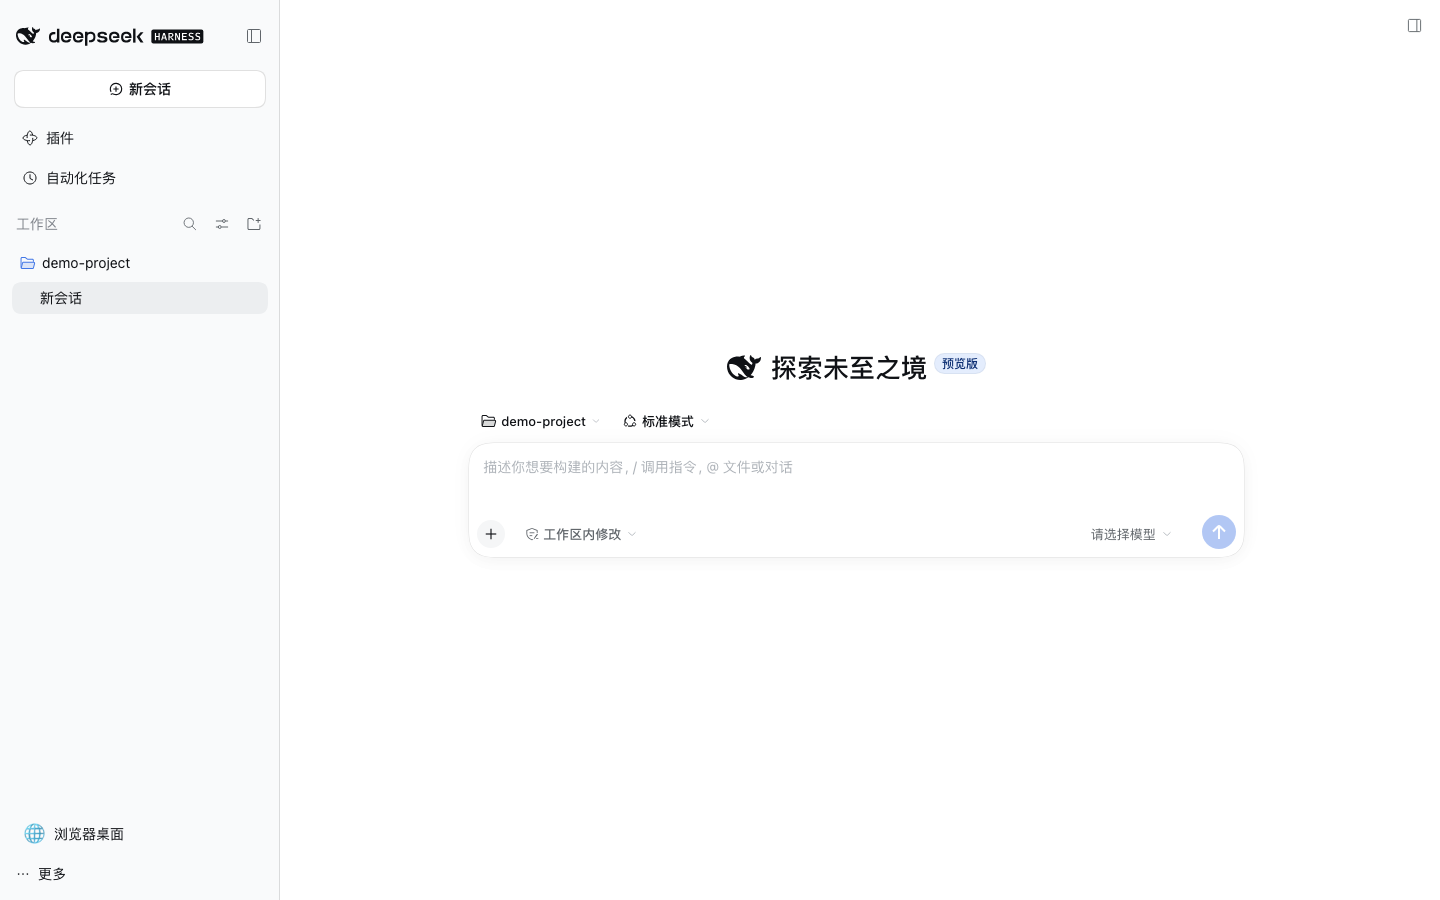
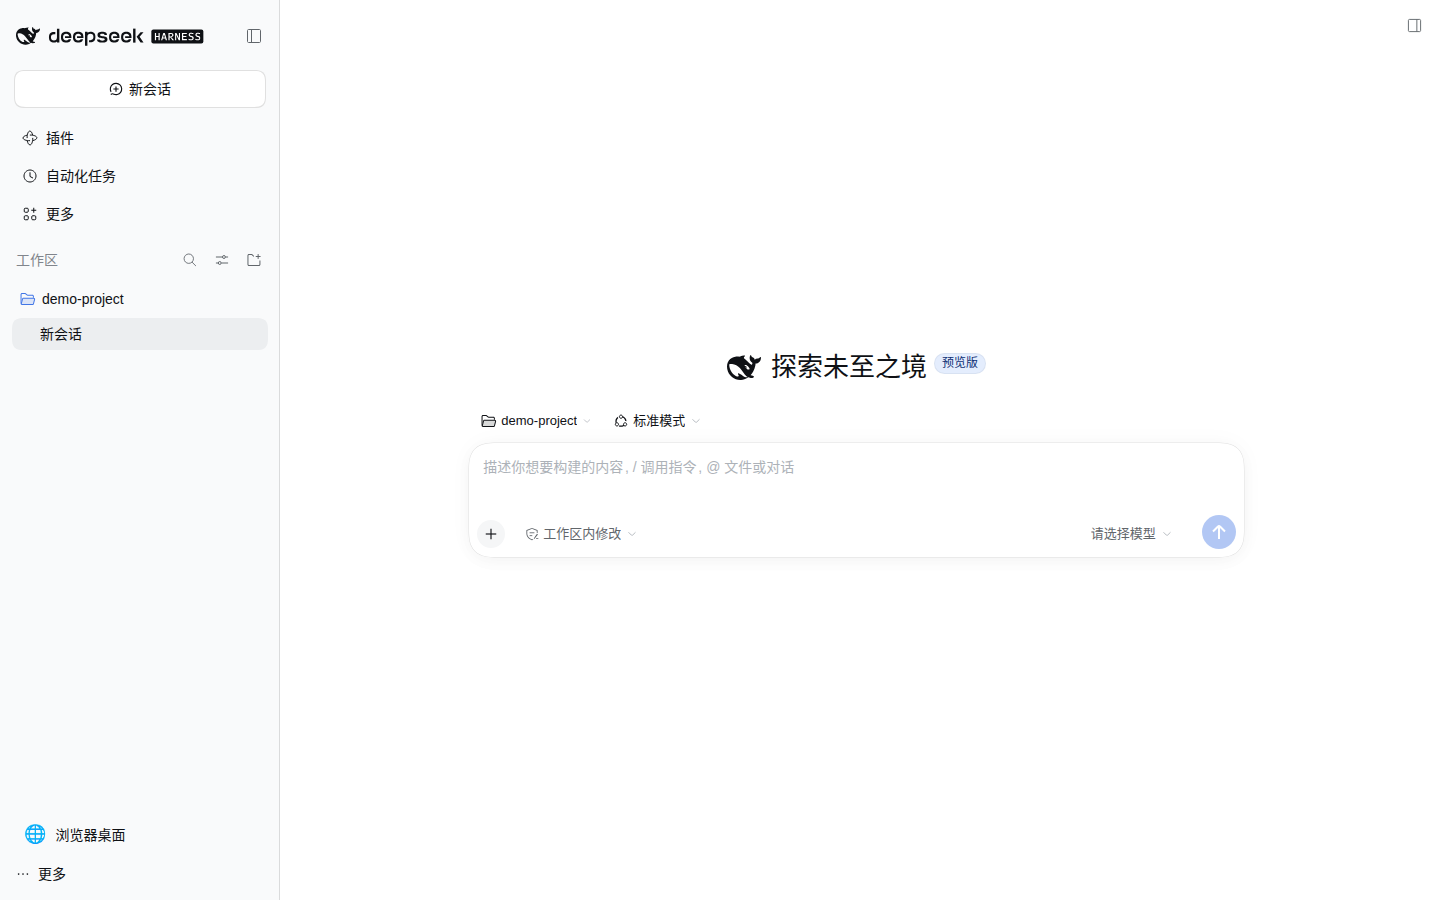
docs: refresh RC3 Light screenshots and capture provenance

diff --git a/assets/README.md b/assets/README.md
@@ -1,18 +1,19 @@
 # Assets
 
-All three screenshots were captured on **2026-10-17**, using the actual **DSH 0.2.1-rc.2** Web UI in **Light** mode at **1440 × 900** pixels. A headless Playwright browser captured a clean, temporary market-variant container; the user's existing deployment, model configuration, workspaces, and sessions were not used or changed.
+All three screenshots were captured on **2026-10-26**, using the actual **DSH 0.2.1-rc.3** Web UI in **Light** mode at **1440 × 900** pixels. Playwright controlled the maintained Chrome on an isolated Ubuntu CI runner to capture a clean, temporary market-variant container; the user's existing deployment, model configuration, workspaces, and sessions were not used or changed.
 
 | Asset | Image / component | View |
 | --- | --- | --- |
-| `deepseek-harness-web.png` | `runzhliu/deepseek-harness:0.2.1-rc.2-r1-market.1` | New-session page with an empty `demo-project` workspace, Plugins, and Automation tasks. The core Web UI is shared with the default image. |
-| `browser-desktop-webui.png` | Same market image; `@runzhliu/dsh-browser-desktop@0.1.5` | Real container Chromium opening the public official `dsh-v0.2.1-rc.2` GitHub Release inside the movable, resizable desktop panel. |
+| `deepseek-harness-web.png` | `runzhliu/deepseek-harness:0.2.1-rc.3-r1-market.1` | New-session page with an empty `demo-project` workspace, Plugins, More, and Automation tasks. The core Web UI is shared with the default image. |
+| `browser-desktop-webui.png` | Same market image; `@runzhliu/dsh-browser-desktop@0.1.5` | Real container Chromium opening the public official `dsh-v0.2.1-rc.3` GitHub Release inside the movable, resizable desktop panel. |
 | `plugin-market-webui.png` | Same market image; `dshmarket@1.66.9` | Settings → Plugin market → Discover. This optional community market is not included in the default image. |
 
 ## Capture notes
 
+- Reproduce with the manually dispatched [`capture-readme.yml`](../.github/workflows/capture-readme.yml) workflow. These assets came from [run 40256266849](https://github.com/runzhliu/deepseek-harness-docker/actions/runs/40256266849); [`capture-provenance.json`](capture-provenance.json) records the runtime, image revision, browser version, capture time, and completed UI checks.
 - Use disposable containers with temporary DSH state and an empty demonstration workspace; do not reuse personal volumes or provider credentials.
 - Accept the first-run notice, defer provider setup, select Light in Settings, and open the empty `demo-project` workspace through the normal UI.
-- For the desktop view, navigate the container's Chromium to the public upstream RC2 Release page. Move and resize the overlay with its normal controls; both Harness and the GitHub page use a light theme.
+- For the desktop view, navigate the container's Chromium to the public upstream RC3 Release page. Move and resize the overlay with its normal controls; both Harness and the GitHub page use a light theme.
 - For the market view, wait for the catalog and compatibility indicators to load. Do not install a plugin merely to take the screenshot. Catalog entries, metrics, and compatibility indicators are a dated snapshot, not an endorsement or an installation test.
 - Capture only the page viewport, excluding the host browser's address bar and temporary launch token. Inspect each PNG for secrets, internal endpoints, private paths, and UI errors before replacing the README assets.
 

diff --git a/README.en.md b/README.en.md
@@ -40,7 +40,7 @@ The default image runs the official `@deepseek-ai/dsh` Web UI in a non-root Node
 
 ![DeepSeek Harness Web UI running from this image](assets/deepseek-harness-web.png)
 
-_Light-theme capture (2026-10-17, DSH `0.2.1-rc.2`) from an isolated, empty demo workspace. No personal sessions or credentials are shown. No model was configured and no model call was made._
+_Light-theme capture (2026-10-26, DSH `0.2.1-rc.3`) from an isolated, empty demo workspace. No personal sessions or credentials are shown. No model was configured and no model call was made._
 
 ## Project status
 
@@ -260,7 +260,7 @@ The public plugin uses Harness's `sidebar.footer.action` and `shell.overlay` ext
 
 ![Movable and resizable Chromium browser embedded in the Harness Web UI](assets/browser-desktop-webui.png)
 
-_Light-theme capture (2026-10-17, DSH `0.2.1-rc.2`, browser-desktop plugin `0.1.5`): the browser panel is inside Harness and displays the official RC2 GitHub Release page._
+_Light-theme capture (2026-10-26, DSH `0.2.1-rc.3`, browser-desktop plugin `0.1.5`): the browser panel is inside Harness and displays the official RC3 GitHub Release page._
 
 This follows the visible-desktop idea from [`docker-antigravity`](https://github.com/runzhliu/docker-antigravity) without adopting its amd64 base or Selkies. Debian's native packages keep the image usable on both Apple Silicon and x86 Linux. The official [Browser Use architecture](https://github.com/deepseek-ai/deepseek-harness/blob/master/docs/subsystems/browser-use.md) and [Sidebar Browser limitations](https://github.com/deepseek-ai/deepseek-harness/blob/master/packages/client/ui-sidebar-browser/README.md) describe the boundary between these layers. Port 6080 is loopback-only like 3080; the native noVNC endpoint has no authentication and must never be exposed directly. The optional LAN overlay carries the versioned `/novnc-*` route through the same HTTPS and authentication boundary as the Web UI.
 
@@ -316,7 +316,7 @@ The variant has the unambiguous `runzhliu/deepseek-harness:0.2.1-rc.3-r1-market.
 
 ![Light-theme community plugin market in the optional market image](assets/plugin-market-webui.png)
 
-_Captured from the optional market image (2026-10-17, DSH `0.2.1-rc.2`, `dshmarket@1.66.9`); this page is absent from the default image. Catalog entries and compatibility indicators change over time. This screenshot shows browsing only; none of the displayed plugins were installed._
+_Captured from the optional market image (2026-10-26, DSH `0.2.1-rc.3`, `dshmarket@1.66.9`); this page is absent from the default image. Catalog entries and compatibility indicators change over time. This screenshot shows browsing only; none of the displayed plugins were installed._
 
 The market package itself is pinned and copied at build time. Plugins installed through it and the pnpm store persist in the `dsh-home` volume. Installation needs container egress to npm/GitHub, and third-party build scripts should remain blocked until separately reviewed and approved. One-click market restart is disabled; apply lifecycle changes with `docker compose restart` or a Kubernetes rollout.
 

diff --git a/README.md b/README.md
@@ -40,7 +40,7 @@
 
 ![DeepSeek Harness 浅色 Web UI：新版首页与导航](assets/deepseek-harness-web.png)
 
-_浅色界面实拍（2026-10-17，DSH `0.2.1-rc.2`）。使用独立空白演示工作区，不包含个人会话或凭据，未配置模型，也未发起模型调用。_
+_浅色界面实拍（2026-10-26，DSH `0.2.1-rc.3`）。使用独立空白演示工作区，不包含个人会话或凭据，未配置模型，也未发起模型调用。_
 
 ## 项目状态
 
@@ -259,7 +259,7 @@ docker compose --env-file .env.lan -f compose.yaml -f compose.lan.yaml \
 
 ![Harness WebUI 中可移动、缩放的内嵌 Chromium 浏览器](assets/browser-desktop-webui.png)
 
-_浅色界面实拍（2026-10-17，DSH `0.2.1-rc.2`、浏览器桌面插件 `0.1.5`）：浏览器浮窗位于 Harness WebUI 内，图中打开的是官方 RC2 GitHub Release 页面。_
+_浅色界面实拍（2026-10-26，DSH `0.2.1-rc.3`、浏览器桌面插件 `0.1.5`）：浏览器浮窗位于 Harness WebUI 内，图中打开的是官方 RC3 GitHub Release 页面。_
 
 该实现参考了 [`docker-antigravity`](https://github.com/runzhliu/docker-antigravity) 的可视桌面思路，但没有采用其 `amd64` 基础镜像和 Selkies，而是使用 Debian 原生架构软件包，因此 Apple Silicon 与 x86 Linux 均可运行。官方的 [Browser Use 架构](https://github.com/deepseek-ai/deepseek-harness/blob/master/docs/subsystems/browser-use.md)和 [Sidebar Browser 限制](https://github.com/deepseek-ai/deepseek-harness/blob/master/packages/client/ui-sidebar-browser/README.md)说明了两类浏览器能力的边界。6080 与 3080 一样只绑定宿主机回环地址；noVNC 原生端口没有认证，不能直接暴露。可选 LAN overlay 会把版本化 `/novnc-*` 路径放到与 WebUI 相同的 HTTPS 和认证入口下。
 
@@ -315,7 +315,7 @@ DSH_WORKSPACE=/absolute/path/to/your/project \
 
 ![可选 market 镜像中的浅色社区插件市场](assets/plugin-market-webui.png)
 
-_可选 market 镜像实拍（2026-10-17，DSH `0.2.1-rc.2`、`dshmarket@1.66.9`）；默认镜像没有此页面。目录与兼容性标记会变化，截图仅浏览，未安装图中插件。_
+_可选 market 镜像实拍（2026-10-26，DSH `0.2.1-rc.3`、`dshmarket@1.66.9`）；默认镜像没有此页面。目录与兼容性标记会变化，截图仅浏览，未安装图中插件。_
 
 市场自身在构建期固定并打入可选镜像；通过市场安装的插件和 pnpm store 会写入持久化的 `dsh-home` 卷。安装过程需要容器能够访问 npm/GitHub，第三方包的构建脚本仍应在审查后单独授权。市场内的一键重启已禁用，变更需要通过 `docker compose restart` 或 Kubernetes rollout 进入新进程。
 

diff --git a/CHANGELOG.md b/CHANGELOG.md
@@ -9,6 +9,7 @@ All notable changes to this project are documented here.
 - Upgrade the official runtime and matching Browser Use packages to `@deepseek-ai/dsh@0.2.1-rc.3`, with immutable container revision `0.2.1-rc.3-r1` and Helm chart `0.1.26`.
 - Include upstream More menus for plugin navigation, unsent draft recovery after switching sessions, and API-key model catalog updates aligned with account sign-in.
 - Add a manually dispatched, temporary-state-only Light screenshot workflow with provider-directory, navigation, market, noVNC and draft-recovery checks; it uploads reviewable image artifacts without configuring a model or pushing README changes.
+- Refresh all three README screenshots from the published RC3 market image, captured on 2026-10-26, with reviewed Light-theme views and machine-readable provenance.
 - Retain browser-desktop `0.1.5`, optional market `1.66.9`, pinned ungoogled-chromium `152.0.7977.82-1`, and the existing authentication, network and sandbox boundaries without modifying upstream source.
 
 ## 0.1.25 - 2026-10-17
